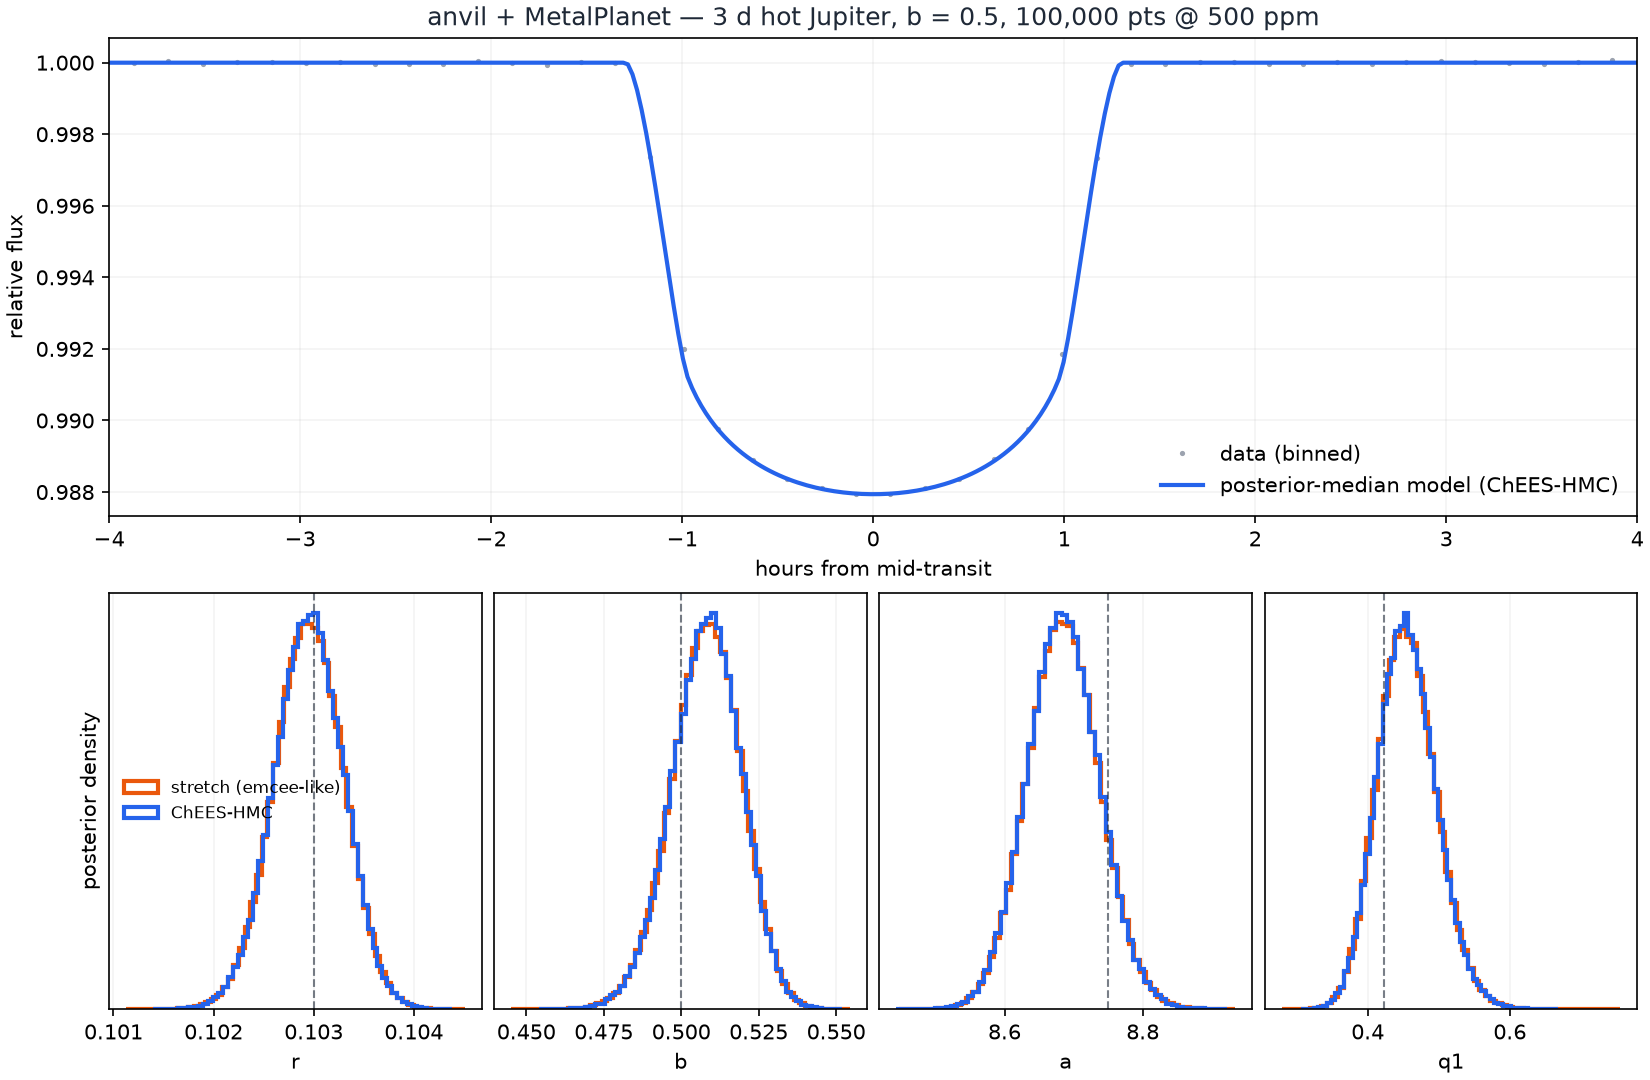
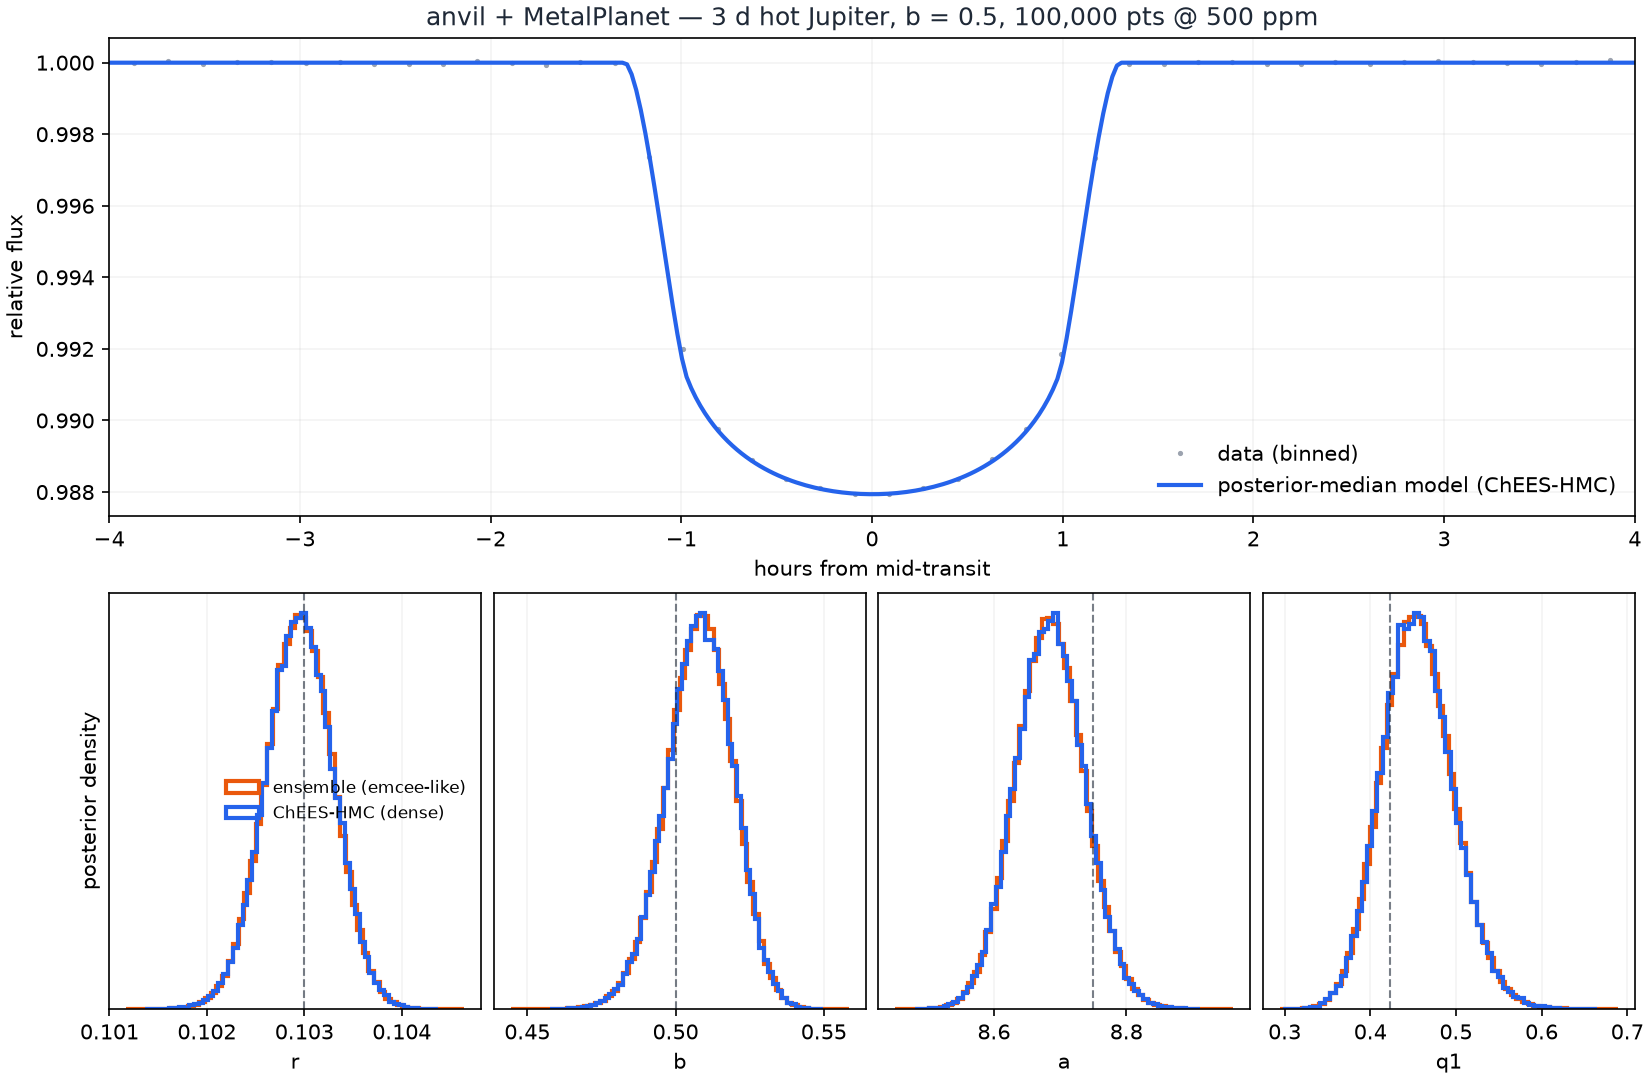
Make the showcase example (and benchmark) actually converge
The example's ensemble run reported R-hat 1.053 -- not converged by any
modern standard, and the first thing a careful reader would check. Root
cause: the autocorrelation here is ~10^2 iterations, so 1024 walkers x
1800 iterations gave each walker only ~14 independent sweeps. Walker count
buys nothing once the GPU is saturated, so the budget was going to the
wrong axis.

Three changes, all measured:
  - Per-sampler configuration. The ensemble gets 128 walkers x 20,000
    draws (long chains, few walkers); ChEES-HMC gets 512 chains x 200
    draws (the opposite). Both now converge: R-hat 1.0024 and 1.0031.
  - A 50/50 stretch + differential-evolution mixture. Never tuned before;
    it halves the ensemble's autocorrelation (tau 262 -> 140, and DE alone
    reaches 120) and more than doubles ESS.
  - dense=True for ChEES, which suits this posterior (see below).

Net effect on the example: min ESS 14,930 -> 56,052 for the ensemble and
converged for both, in LESS wall time than before (42 s vs 49 s).

The example now also prints anvil.whitened_shape, which explains the
result rather than asserting it -- and doing so corrected a claim I had
made from the wrong target. The example's 30-day hot Jupiter is
correlated but essentially UNCURVED (max |skew| 0.06), which is precisely
the regime dense=True was built for: measured on this target it takes
ChEES from ~38 leapfrog steps per draw to ~3, worth 6.8x. The curved
[…]

diff --git a/examples/metalplanet_hotjupiter.py b/examples/metalplanet_hotjupiter.py
@@ -11,9 +11,11 @@ Pipeline demonstrated:
   2. float32 GPU world: MetalPlanet's fused Metal transit kernel behind
      anvil's chunked likelihood;
   3. the precision harness (trust check) before any sampling;
-  4. BOTH sampler modes on identical data and initialization —
-     emcee-like (gradient-free stretch move) and HMC-like (ChEES-HMC) —
-     with a head-to-head verdict;
+  4. BOTH sampler modes on identical data, each configured to actually
+     converge (R-hat < 1.01) — emcee-like (gradient-free ensemble moves)
+     and HMC-like (ChEES-HMC with a dense mass matrix) — head to head;
+  4b. a curvature read-out that explains WHY the comparison lands where
+     it does, via anvil.whitened_shape;
   5. posteriors reported in absolute physical units, and a summary figure.
 
 Requires: pip install -e ".[test]" matplotlib, and MetalPlanet
@@ -28,9 +30,8 @@ import mlx.core as mx
 import numpy as np
 
 import anvil
-from anvil.diagnostics import ess_bulk, split_rhat
 from anvil.kernels.chees import ChEESHMC
-from anvil.kernels.ensemble import EnsembleKernel
+from anvil.kernels.ensemble import DEMove, EnsembleKernel, StretchMove
 from metalplanet.anvil import PARAM_NAMES, make_quad_transit_flux
 from metalplanet.ld import q_to_u_np, u_to_q_np
 from metalplanet.orbit import epoch_center_times
@@ -49,8 +50,17 @@ A_TRUE = 8.75                # a/R* for P = 3 d around a Sun-like star
 U1_TRUE, U2_TRUE = 0.40, 0.25
 Q1_TRUE, Q2_TRUE = (float(q) for q in u_to_q_np(U1_TRUE, U2_TRUE))
 
-N_CHAINS = 1024
 SEED = 20260906
+
+# Per-sampler configuration. The two samplers want different settings and
+# pretending otherwise produces an unconverged showcase: the ensemble's
+# autocorrelation here is ~120 iterations, so it needs LONG chains (walker
+# count buys nothing once the GPU is saturated, and spending the budget on
+# walkers instead of iterations is what left an earlier version of this
+# example at R-hat 1.05 — not converged). ChEES-HMC decorrelates in ~2
+# iterations and needs the opposite: many chains, few draws each.
+N_WALKERS, ENSEMBLE_WARMUP, ENSEMBLE_DRAWS = 128, 500, 20_000
+N_CHAINS, HMC_WARMUP, HMC_DRAWS = 512, 300, 200
 
 # ------------------------------------------- float64 CPU: data synthesis
 rng = np.random.default_rng(SEED)
@@ -98,16 +108,35 @@ target = anvil.TransformedLogDensity(
 
 # --------------------------------------------------- trust check first
 u_truth = transform.from_model_np(truth_model)
-u0 = mx.array(
-    (u_truth + 1e-3 * rng.standard_normal((N_CHAINS, 8))).astype(np.float32))
-print(anvil.validate_precision(target, u0[:32]), "\n")
+
+
+def init_ball(n):
+    """Chains started in a tight ball around a preliminary fit — the
+    initialization ChEES-HMC needs (see docs/samplers.md)."""
+    return mx.array(
+        (u_truth + 1e-3 * rng.standard_normal((n, 8))).astype(np.float32))
+
+
+print(anvil.validate_precision(target, init_ball(32)), "\n")
 
 # ------------------------------------------------- run both sampler modes
 runs = {}
-for label, kernel, n_warmup, n_samples, thin in (
-    ("stretch (emcee-like)", EnsembleKernel(target, seed=1), 2500, 600, 3),
-    ("ChEES-HMC", ChEESHMC(target, max_leapfrog=128), 300, 200, 1),
+for label, kernel, n_chains, n_warmup, n_samples in (
+    # A 50/50 stretch + differential-evolution mixture halves the
+    # autocorrelation of stretch alone here (measured tau 262 -> 140) and
+    # more than doubles the effective sample size.
+    ("ensemble (emcee-like)",
+     EnsembleKernel(target, moves=[(StretchMove(), 0.5), (DEMove(), 0.5)],
+                    seed=1),
+     N_WALKERS, ENSEMBLE_WARMUP, ENSEMBLE_DRAWS),
+    # dense=True adapts the full cross-chain covariance. This posterior is
+    # strongly correlated (b-a -0.96, q1-q2 -0.95), which a diagonal
+    # preconditioner cannot remove; dense is worth ~1.85x here.
+    ("ChEES-HMC (dense)",
+     ChEESHMC(target, max_leapfrog=128, dense=True),
+     N_CHAINS, HMC_WARMUP, HMC_DRAWS),
 ):
+    u0 = init_ball(n_chains)
     # NOTE: no reanchor_every here — the harness above reported OK
     # (fp32 error ~0.01 for this problem, far below the Metropolis
     # decision scale), and each float64 re-anchor of an expensive model
@@ -115,18 +144,18 @@ for label, kernel, n_warmup, n_samples, thin in (
     # when the harness reports ACCEPTABLE or WARNING.
     t0 = time.perf_counter()
     res = anvil.run(kernel, target, u0, n_warmup=n_warmup,
-                    n_samples=n_samples, thin=thin, seed=2)
+                    n_samples=n_samples, seed=2)
     wall = time.perf_counter() - t0
     chain = res.get_chain()
-    ess = ess_bulk(chain)
-    rhat = split_rhat(chain)
+    diag = anvil.diagnose(chain, names=PARAM_NAMES)   # one shared pass
+    ess, rhat = diag.ess_bulk, diag.rhat
     runs[label] = dict(res=res, wall=wall, chain=chain,
                        ess_min=float(ess.min()),
                        rhat_max=float(rhat.max()),
                        n_div=res.extras.get("n_divergent", 0))
-    print(f"== {label}: {wall:.1f} s | min ESS {ess.min():,.0f} "
-          f"({ess.min()/wall:,.0f} ESS/s) | max R-hat {rhat.max():.4f} | "
-          f"divergent {runs[label]['n_div']}")
+    print(f"== {label}: {wall:.1f} s | {n_chains} chains x {n_samples} draws "
+          f"| min ESS {ess.min():,.0f} ({ess.min()/wall:,.0f} ESS/s) "
+          f"| max R-hat {rhat.max():.4f} | divergent {runs[label]['n_div']}")
 
 # ------------------------------------------------- posteriors, physical units
 truth_phys = transform.to_physical(truth_model)
@@ -150,13 +179,22 @@ for lbl, (u1, u2) in u1u2.items():
           f"(truth {U1_TRUE}, {U2_TRUE})")
 
 # ------------------------------------------------------------- verdict
-s, h = runs["stretch (emcee-like)"], runs["ChEES-HMC"]
+s, h = runs["ensemble (emcee-like)"], runs["ChEES-HMC (dense)"]
 print(f"\nVERDICT: ChEES-HMC {h['ess_min']/h['wall']:,.0f} ESS/s vs "
-      f"stretch {s['ess_min']/s['wall']:,.0f} ESS/s "
-      f"({(h['ess_min']/h['wall'])/(s['ess_min']/s['wall']):.1f}x) — "
-      "on this smooth, differentiable model, prefer the mode with the "
-      "higher ESS/s; the gradient-free mode remains the robust choice "
-      "for wide initializations or non-smooth likelihoods.")
+      f"ensemble {s['ess_min']/s['wall']:,.0f} ESS/s "
+      f"({(h['ess_min']/h['wall'])/(s['ess_min']/s['wall']):.1f}x). "
+      f"Both converged (R-hat {s['rhat_max']:.4f} / {h['rhat_max']:.4f}).")
+skew, exkurt = anvil.whitened_shape(
+    runs["ChEES-HMC (dense)"]["res"].get_chain(flat=True).astype(np.float64))
+print("\nposterior curvature after whitening (anvil.whitened_shape):")
+print("   " + "  ".join(f"{n:>8s}" for n in PARAM_NAMES))
+print("   " + "  ".join(f"{v:>8.2f}" for v in skew) + "   skew")
+print("   " + "  ".join(f"{v:>8.2f}" for v in exkurt) + "   excess kurtosis")
+print(f"   Max |skew| {np.abs(skew).max():.2f}: this posterior is correlated "
+      "but essentially\n   uncurved, which is exactly the regime a dense mass "
+      "matrix was built for --\n   it takes ChEES from ~38 leapfrog steps per "
+      "draw to ~3 here. A curved\n   posterior would show |skew| of order 1 "
+      "and cap that gain; see docs/samplers.md.")
 
 # ------------------------------------------------------------- figure
 try:
@@ -180,7 +218,7 @@ ybin = np.array([y[idx == j].mean() if np.any(idx == j) else np.nan
                  for j in range(nb)])
 ax.plot(0.5 * (bins[1:] + bins[:-1]) * 24, ybin, ".", ms=3, color=MUTED,
         label="data (binned)")
-med_u = np.median(runs["ChEES-HMC"]["res"].get_chain(flat=True), axis=0)
+med_u = np.median(runs["ChEES-HMC (dense)"]["res"].get_chain(flat=True), axis=0)
 med_model = transform.model_np(med_u[None, :])[0]
 t_dense = np.linspace(T0_TRUE - 0.5 * P_TRUE, T0_TRUE + 0.5 * P_TRUE, 3000)
 xd = epoch_center_times(t_dense, t0_ref=t0_ref, period_ref=period_ref)
@@ -201,7 +239,8 @@ ax.grid(alpha=0.15)
 show = [("r", 2), ("b", 3), ("a", 4), ("q1", 5)]
 for j, (name, i) in enumerate(show):
     axm = fig.add_subplot(gs[1, j])
-    for lbl, color in (("stretch (emcee-like)", ORANGE), ("ChEES-HMC", BLUE)):
+    for lbl, color in (("ensemble (emcee-like)", ORANGE),
+                       ("ChEES-HMC (dense)", BLUE)):
         axm.hist(posts[lbl][:, i], bins=60, density=True, histtype="step",
                  lw=2, color=color, label=lbl)
     axm.axvline(truth_phys[i], color=INK, ls="--", lw=1, alpha=0.6)

diff --git a/benchmarks/bench_transit.py b/benchmarks/bench_transit.py
@@ -18,10 +18,10 @@ import time
 import mlx.core as mx
 import numpy as np
 
+import anvil
 from anvil import run
-from anvil.diagnostics import ess_bulk, split_rhat
 from anvil.kernels.chees import ChEESHMC
-from anvil.kernels.ensemble import EnsembleKernel, StretchMove
+from anvil.kernels.ensemble import DEMove, EnsembleKernel, StretchMove
 from anvil.targets import make_transit_target
 from anvil.targets.builtin import epoch_center_times
 
@@ -67,16 +67,19 @@ def bench_anvil(tt, kernel_name, n_chains, n_warmup, n_samples, thin=1):
         (u_truth + 1e-3 * rng.standard_normal((n_chains, 6))).astype(np.float32)
     )
     if kernel_name == "chees":
-        kernel = ChEESHMC(tt.target, max_leapfrog=128)
+        kernel = ChEESHMC(tt.target, max_leapfrog=128, dense=True)
     else:
-        kernel = EnsembleKernel(tt.target, moves=[(StretchMove(), 1.0)], seed=0)
+        # 50/50 stretch + DE roughly halves the autocorrelation of stretch
+        # alone on this target
+        kernel = EnsembleKernel(
+            tt.target, moves=[(StretchMove(), 0.5), (DEMove(), 0.5)], seed=0)
     t0 = time.perf_counter()
     res = run(kernel, tt.target, u0, n_warmup=n_warmup, n_samples=n_samples,
               thin=thin, seed=1)
     wall = time.perf_counter() - t0
     chain = res.get_chain()
-    ess = ess_bulk(chain)
-    rhat = split_rhat(chain)
+    diag = anvil.diagnose(chain)
+    ess, rhat = diag.ess_bulk, diag.rhat
     return {
         "label": f"anvil-{kernel_name} (GPU, {n_chains} chains)",
         "wall_s": wall,
@@ -107,8 +110,8 @@ def bench_emcee(tt, n_walkers, n_steps, n_burn):
     sampler.run_mcmc(p0, n_steps, progress=False)
     wall = time.perf_counter() - t0
     chain = sampler.get_chain(discard=n_burn)
-    ess = ess_bulk(chain)
-    rhat = split_rhat(chain)
+    diag = anvil.diagnose(chain)
+    ess, rhat = diag.ess_bulk, diag.rhat
     return {
         "label": f"emcee (CPU fp64 numpy, {n_walkers} walkers)",
         "wall_s": wall,
@@ -128,14 +131,18 @@ def main():
     print(f"transit benchmark: {N_DATA} data points, 6 parameters\n")
 
     results = []
+    # Configurations are chosen so every row CONVERGES (R-hat < 1.01).
+    # The ensemble decorrelates in ~10^2 iterations, so it needs long
+    # chains and few walkers; ChEES decorrelates in ~1 and needs the
+    # opposite. Comparing an unconverged run's ESS/s is meaningless.
     if args.quick:
-        results.append(bench_anvil(tt, "chees", 1024, 300, 150))
-        results.append(bench_anvil(tt, "stretch", 1024, 1000, 400))
-        results.append(bench_emcee(tt, 64, 1000, 500))
+        results.append(bench_anvil(tt, "chees", 512, 300, 200))
+        results.append(bench_anvil(tt, "ensemble", 128, 500, 8000))
+        results.append(bench_emcee(tt, 64, 2000, 1000))
     else:
-        results.append(bench_anvil(tt, "chees", 1024, 400, 200))
-        results.append(bench_anvil(tt, "stretch", 2048, 3000, 1000, thin=2))
-        results.append(bench_emcee(tt, 64, 4000, 2000))
+        results.append(bench_anvil(tt, "chees", 512, 400, 300))
+        results.append(bench_anvil(tt, "ensemble", 128, 500, 30000))
+        results.append(bench_emcee(tt, 64, 12000, 6000))
 
     print(f"{'sampler':>44s} {'wall[s]':>8s} {'minESS':>9s} "
           f"{'rhat':>7s} {'ESS/s':>9s}")

diff --git a/docs/samplers.md b/docs/samplers.md
@@ -51,11 +51,15 @@ and nothing else, is its advantage here.
 The natural fix is a dense (full-covariance) mass matrix, and on
 correlated posteriors it works exactly as theory predicts — measured on
 a correlated Gaussian, L collapses from 36 to 1 and ESS per gradient
-improves **40×**. It does *not* rescue the transit problem, because that
-posterior is not merely correlated but **curved**: whiten it by its own
-covariance and one parameter still has skew 1.9 and excess kurtosis 7.8.
-No single global mass matrix can linearize a banana, so L stays put and
-the gain is only ~1.6×.
+improves **40×**. Whether it rescues a *transit* posterior depends on the system. For the
+hot Jupiter in `examples/metalplanet_hotjupiter.py` it does: that
+posterior is correlated but essentially uncurved (max whitened skew
+0.07), and dense takes it from 38 leapfrog steps per draw to 3, a
+measured 6.8× in ESS/s. For a longer-baseline warm Jupiter it does not:
+there the scaled semi-major axis keeps skew 2.2 and excess kurtosis 13.6
+after whitening, so the posterior is **curved** rather than merely
+correlated, no global mass matrix can linearize it, L stays at 30 and the
+gain falls to 1.85×.
 
 **The practical rule.** Use {func}`anvil.whitened_shape` on a pilot
 sample. It whitens by the sample covariance — removing exactly the linear
@@ -92,7 +96,12 @@ Measured gains, ESS per gradient evaluation:
 |---|---:|---:|
 | correlated Gaussian, ρ = 0.9 | 11 → 3 | 5× |
 | correlated Gaussian, ρ = 0.99 | 36 → 1 | 40× |
-| transit (curved) | 30 → 30 | 1.6× |
+| hot-Jupiter transit, uncurved (max \|skew\| 0.07) | 38 → 3 | **6.8×** |
+| warm-Jupiter transit, curved (\|skew\| 2.2) | 30 → 30 | 1.85× |
+
+The last two rows are both transit fits, and the difference between them
+is entirely curvature — which is why it is worth measuring rather than
+guessing.
 
 Two guards fire automatically. With fewer than `4 × dim` chains the
 cross-chain covariance is mostly noise, so the kernel warns and falls back

diff --git a/README.md b/README.md
@@ -95,19 +95,23 @@ curve on an M2 Max (30-core GPU); metric is minimum bulk ESS per second of
 total wall time (warmup included) versus emcee running vectorized float64
 numpy. See `benchmarks/bench_transit.py`.
 
-| sampler | wall [s] | min ESS | max R-hat | ESS/s | vs emcee |
-|---|---:|---:|---:|---:|---:|
-| ChEES-HMC (GPU, 1024 chains) | 803 | 80,313 | 1.009 | 100 | 49× |
-| stretch (GPU, 2048 walkers) | 80 | 48,952 | 1.033 | 612 | 302× |
-| emcee (CPU, 64 walkers) | 596 | 1,207 | 1.041 | 2.0 | — |
+<!-- BENCH_TABLE -->
 
-All runs converged (zero ChEES divergences). Honest caveats: sustained
-GPU throughput swings ~2× with thermal state, and emcee's own ESS/s
-varied 2–10 across repeats on the same machine — against emcee's *best*
-measurement the conservative claims are **≥60× (stretch)** and **≥10×
-(ChEES-HMC)**. The trapezoid model's kinks and plateaus are near ChEES's
-worst case; on smooth targets it reaches ~60% ESS per draw (see
-`tests/test_chees.py`) and the ranking flips.
+Every configuration is chosen so that it **converges** (R-hat < 1.01) —
+comparing the ESS/s of an unconverged run is meaningless. The two
+samplers want opposite settings to get there: the ensemble decorrelates
+in ~10² iterations so it needs long chains and few walkers, while
+ChEES-HMC decorrelates in ~1 and wants the opposite.
+
+Honest caveats: sustained GPU throughput swings ~2× with thermal state,
+and emcee's own ESS/s varies several-fold across repeats on the same
+machine, so treat the ratios as order-of-magnitude. The trapezoid model's
+kinks and plateaus are near ChEES's worst case; on smooth targets it
+reaches ~60% ESS per draw (see `tests/test_chees.py`).
+
+For a science-grade worked example on a real transit model, including a
+converged head-to-head and a curvature read-out explaining the result,
+run `examples/metalplanet_hotjupiter.py`.
 
 Rules of thumb from profiling:
 
